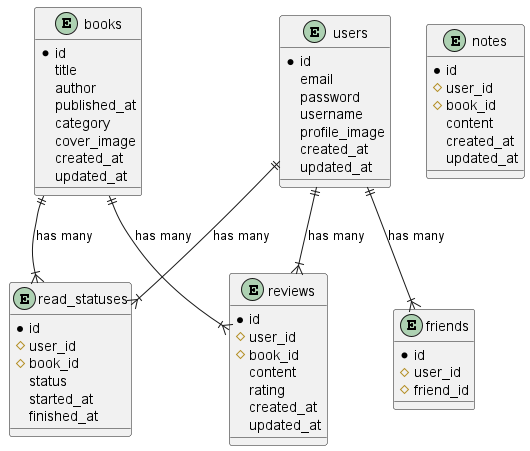
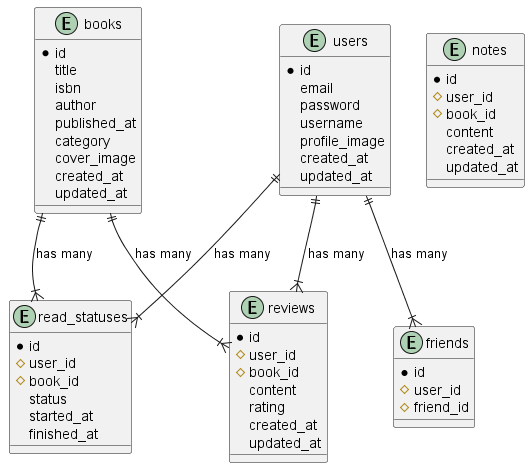
temporary resuming development

diff --git a/app/main.py b/app/main.py
@@ -1,16 +1,21 @@
 from datetime import datetime, timedelta, timezone
-from typing import Annotated, Union
+from typing import Annotated, Union, List
 
 from fastapi import FastAPI, Depends, HTTPException, status
 from fastapi.security import OAuth2PasswordBearer, OAuth2PasswordRequestForm
 
+from pydantic import BaseModel
+
 from models.user import User
+from models.book import Book
 
 import helpers.auth as auth
 from helpers.auth import Token
 
-app = FastAPI()
+from models.user import User
 
+
+app = FastAPI()
 
 @app.post("/token")
 async def login_for_access_token( form_data: Annotated[OAuth2PasswordRequestForm, Depends()],) -> Token:
@@ -27,8 +32,6 @@ async def login_for_access_token( form_data: Annotated[OAuth2PasswordRequestForm
     )
     return Token(access_token=access_token, token_type="bearer")
 
-
-
 @app.get("/users/me", response_model=auth.UserResponse)
 async def read_users_me(
     current_user: Annotated[auth.UserResponse, Depends(auth.get_current_active_user)],
@@ -41,10 +44,6 @@ async def read_own_items(
 ):
     return [{"item_id": "Foo", "owner": current_user.username}]
 
-@app.get("/")
-def root():
-    return {"message": "hello my fastAPI"}
-
 @app.get("/user/{id}")
 def user(id: int):
     user = User.get(id)
@@ -53,10 +52,23 @@ def user(id: int):
     return {"id": user.id, "username": user.username, "email": user.email, "hashed_password": user.hashed_password}
 
 @app.post("/user/")
-def create_user(id, username, email, password):
+def create_user(username, email, password):
     hashed_password = auth.get_password_hash(password)
-    User.create(id, username, email, hashed_password, datetime.now(), False)
-    return {"message": f'user {id} created.'}
+    User.create(username, email, hashed_password, datetime.now(), False)
+    return {"message": f'user {username} created.'}
 
+class GoogleBooksApiResponse(BaseModel):
+    title: str
+    authors: List[str]
+    description: str
+    isbn: int
+    image: str
+
+
+
+@app.get("/book/{title}")
+def search_book(title):
+    books = Book.get_books_from_google(title)
+    return books
 
 

diff --git a/app/models/book.py b/app/models/book.py
@@ -1,0 +1,55 @@
+from sqlalchemy import String, Integer, Column, Boolean, DateTime
+from sqlalchemy import ForeignKey
+from sqlalchemy.orm import Mapped
+from sqlalchemy.orm import relationship
+
+from datetime import datetime
+
+import requests
+
+from models.base import Base, session_scope
+from models.user import User
+
+class Book(Base):
+    __tablename__ = "books"
+    id = Column(Integer, autoincrement=True, primary_key=True)
+    title = Column(String)
+    author = Column(String)
+    published_at = Column(DateTime)
+    category = Column(String)
+    cover_image = Column(String)
+    created_at = Column(DateTime)
+    updated_at = Column(DateTime)
+
+
+    @classmethod
+    def create(cls, id, title, author, published_at, category, cover_image):
+        book = cls(id, title, author, published_at, category, cover_image, datetime.now(), datetime.now())
+        try:
+            with session_scope() as session:
+                session.add(book)
+        except Exception as e:
+            print(e)
+
+    @classmethod
+    def get(cls, id):
+        with session_scope() as session:
+            book = session.query(cls).filter(cls.id == id).first()
+        if book is None:
+            return None
+        return book
+
+    @classmethod
+    def update():
+        pass
+
+    @classmethod
+    def delete():
+        pass
+
+    # Google Books APIから情報を取得
+    @classmethod
+    def get_books_from_google(cls, title: str = None):
+        google_books_api_base_url = 'https://www.googleapis.com/books/v1/'
+        books = requests.get(google_books_api_base_url + f"volumes?q={title}")
+        return books.json()

diff --git a/app/models/user.py b/app/models/user.py
@@ -6,7 +6,7 @@ from models.base import Base, session_scope
 
 class User(Base):
     __tablename__ = "users"
-    id = Column(Integer, primary_key=True)
+    id = Column(Integer, primary_key=True, autoincrement=True)
     username = Column(String)
     email = Column(String)
     hashed_password = Column(String)
@@ -16,8 +16,8 @@ class User(Base):
 
 
     @classmethod
-    def create(cls, id, username, email, hashed_password, created_at, disabled):
-        user = cls(id=id, username=username, email=email, hashed_password=hashed_password, created_at=created_at, disabled=disabled)
+    def create(cls, username, email, hashed_password, created_at, disabled):
+        user = cls(username=username, email=email, hashed_password=hashed_password, created_at=created_at, disabled=disabled)
         try:
             with session_scope() as session:
                 session.add(user)

diff --git a/app/models/book_test.py b/app/models/book_test.py
@@ -1,0 +1,19 @@
+import pytest
+from sqlalchemy import create_engine
+from sqlalchemy.orm import sessionmaker
+from .base import Base
+
+# テスト用のデータベースエンジンを作成
+@pytest.fixture(scope="module")
+def test_engine():
+    test_engine = create_engine('sqlite:///:memory:')
+    Base.metadata.create_all(test_engine)
+    return test_engine
+
+# テスト用のセッションを作成
+@pytest.fixture(scope="function")
+def session(test_engine):
+    Session = sessionmaker(test_engine)
+    session = Session()
+    yield session
+    session.close()

diff --git a/app/models/base.py b/app/models/base.py
@@ -33,6 +33,7 @@ def session_scope():
 def init_db():
     # __init__.pyから呼び出す
     import models.user
+    import models.book
     Base.metadata.create_all(bind=engine)
     print("database initialized..")
     

diff --git a/README.md b/README.md
@@ -1,8 +1,14 @@
 # BookTracker
 
-[概要](https://butter-epoch-8f2.notion.site/booktracker-eb0c7435171c4e82b9460f067fe6cbda?pvs=4)
-[設計書](https://butter-epoch-8f2.notion.site/BookTracker-fecb4769c1254e01a178bbc0f603cea5?pvs=4)
+- [概要](https://butter-epoch-8f2.notion.site/booktracker-eb0c7435171c4e82b9460f067fe6cbda?pvs=4)
 
+- [設計書](https://butter-epoch-8f2.notion.site/BookTracker-fecb4769c1254e01a178bbc0f603cea5?pvs=4)
+
+
+## 参考資料
+
+- [Developing a Single Page App with FastAPI and Vue.js](https://testdriven.io/blog/developing-a-single-page-app-with-fastapi-and-vuejs/)  
+  構成が似ているので、詰まった時には参照する
 
 
 ## 環境構築
@@ -18,8 +24,6 @@ $ choco install plantuml
 ```
 
 graphvizにpathを通す。
-
-
 
 
 ### app(バックエンド側)
